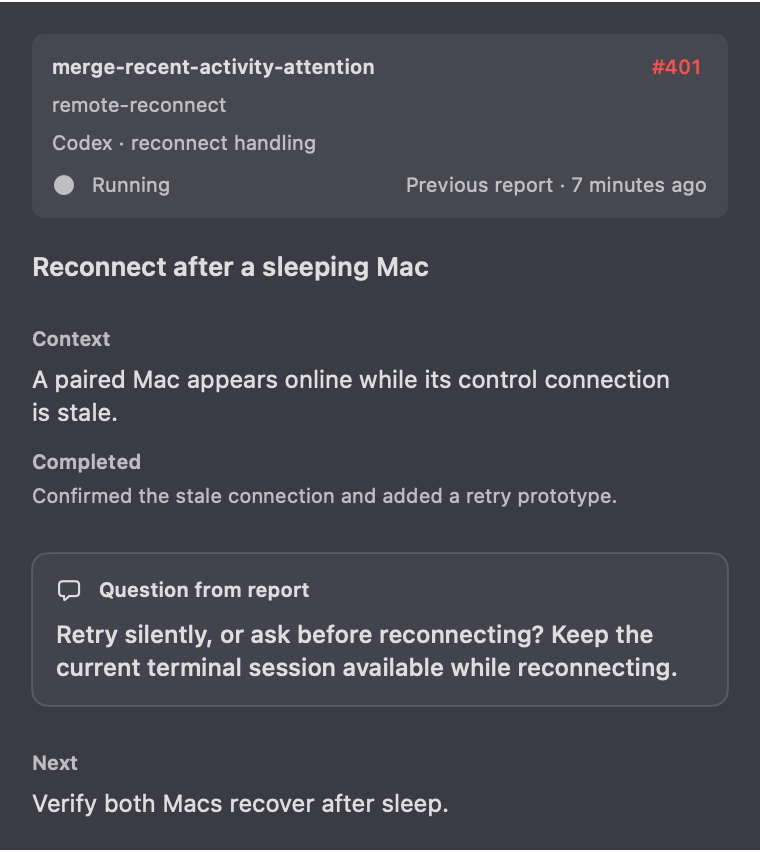
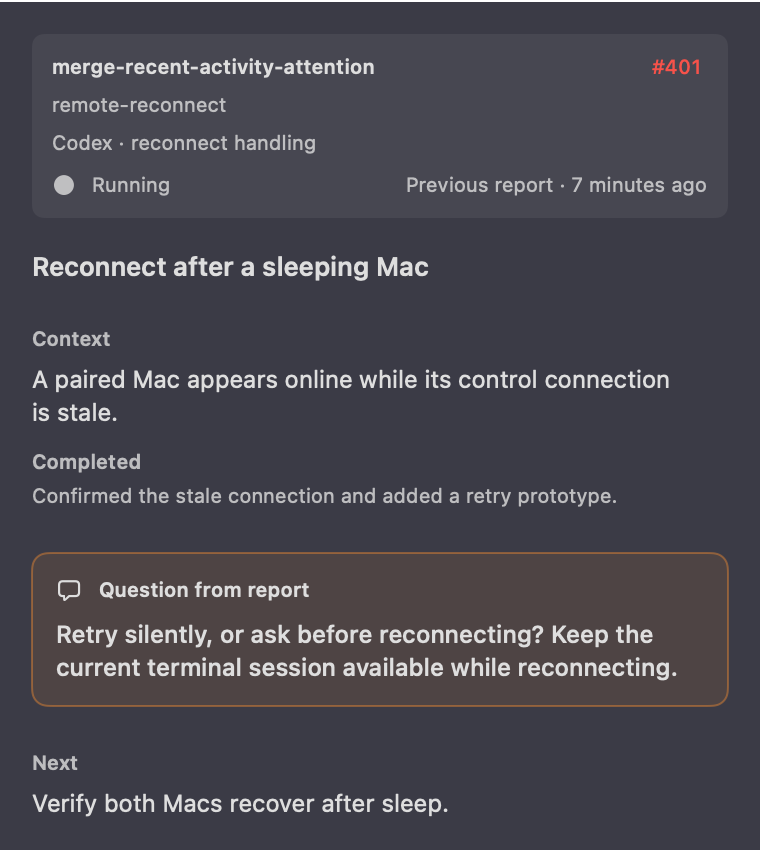
Use orange callouts for saved report questions

Changed region(s): [[0.9382, 0.6408, 0.9684, 0.6714]]

diff --git a/Sources/GrafttyCommandUI/SidebarWorktreeReport.swift b/Sources/GrafttyCommandUI/SidebarWorktreeReport.swift
@@ -58,7 +58,7 @@ public struct SidebarWorktreeReport: View {
 }
 
 /// Report text shared by the Mac popover and the mobile report sheet.
-/// @spec LAYOUT-2.135: While a worktree report is previewed, the application shall group compact identity metadata on a contrasting background, label completed work, and inset its question with an accent for pending input and a neutral treatment for viewed questions.
+/// @spec LAYOUT-2.135: While a worktree report is previewed, the application shall group compact identity metadata on a contrasting background, label completed work, and inset pending and viewed questions with an orange accent while distinguishing them by label.
 public struct SidebarWorktreeReportContent: View {
     public let context: SidebarWorktreeContext
     private let foreground: Color
@@ -168,8 +168,7 @@ public struct SidebarWorktreeReportContent: View {
     }
 
     private func questionSection(_ section: SidebarAttentionCardContent.Section) -> some View {
-        let accent = context.question == nil ? foreground : Color.orange
-        return VStack(alignment: .leading, spacing: 8) {
+        VStack(alignment: .leading, spacing: 8) {
             Label(label(section.kind), systemImage: "bubble.left")
                 .font(.caption).fontWeight(.semibold)
                 .foregroundStyle(foreground)
@@ -178,9 +177,9 @@ public struct SidebarWorktreeReportContent: View {
         }
         .frame(maxWidth: .infinity, alignment: .leading)
         .padding(12)
-        .background(accent.opacity(context.question == nil ? 0.05 : 0.1), in: RoundedRectangle(cornerRadius: 8))
+        .background(Color.orange.opacity(0.1), in: RoundedRectangle(cornerRadius: 8))
         .overlay(RoundedRectangle(cornerRadius: 8)
-            .stroke(accent.opacity(context.question == nil ? 0.16 : 0.4), lineWidth: 1)
+            .stroke(Color.orange.opacity(0.4), lineWidth: 1)
             .allowsHitTesting(false))
         .accessibilityElement(children: .combine)
     }

diff --git a/docs/design-spikes/recent-activity-context/README.md b/docs/design-spikes/recent-activity-context/README.md
@@ -12,7 +12,7 @@ A stopped agent's full question appears beneath its associated pane, labeled “
 
 On Mac, an information button beside the worktree name opens a native popover. Hovering does not open reports. Clicking outside or pressing Escape dismisses the popover. Reports fit their content, scroll when long, and use the highlighted worktree background and Ghostty foreground colors. The Mac popover contains no Pin, Close, Dismiss request, or Open worktree controls; pane and worktree selection stay in the sidebar. Inline questions align beneath the pane titles.
 
-Inside reports, compact identity metadata sits on a subtle contrasting background. The PR badge shares the worktree-name row, and running status shares a row with report age when space permits. Completed work is labeled, and the question sits in an inset callout. Current input requests use the orange accent; viewed questions use a neutral treatment. See the native captures for [pending input](native-report.png), [a running agent's previous report](native-report-running.png), and [a light Ghostty theme](native-report-light.png).
+Inside reports, compact identity metadata sits on a subtle contrasting background. The PR badge shares the worktree-name row, and running status shares a row with report age when space permits. Completed work is labeled, and the question sits in an inset callout. Pending and viewed questions share the orange accent. Their labels distinguish “Needs your input” from “Question from report.” See the native captures for [pending input](native-report.png), [a running agent's previous report](native-report-running.png), and [a light Ghostty theme](native-report-light.png).
 
 On iPhone and iPad, holding a row for 500 milliseconds opens the report without selecting the terminal. iPad uses an anchored popover; compact layouts use a sheet. Normal taps open the terminal. Scrolling, swipe actions, and Edit-mode reordering retain their gestures. VoiceOver exposes Show report.
 

diff --git a/SPECS.md b/SPECS.md
@@ -282,7 +282,7 @@ This file is generated from `@spec` annotations in `Sources/` and `Tests/`. Do n
 
 **LAYOUT-2.134** When a worktree question's pane is not displayed, the application shall show its question beneath the worktree instead of hiding it.
 
-**LAYOUT-2.135** While a worktree report is previewed, the application shall group compact identity metadata on a contrasting background, label completed work, and inset its question with an accent for pending input and a neutral treatment for viewed questions.
+**LAYOUT-2.135** While a worktree report is previewed, the application shall group compact identity metadata on a contrasting background, label completed work, and inset pending and viewed questions with an orange accent while distinguishing them by label.
 
 **LAYOUT-2.140** While a mobile worktree report is displayed, the application shall freeze host-published project and worktree positions and folder and pin membership while keeping report and row content live.
 
